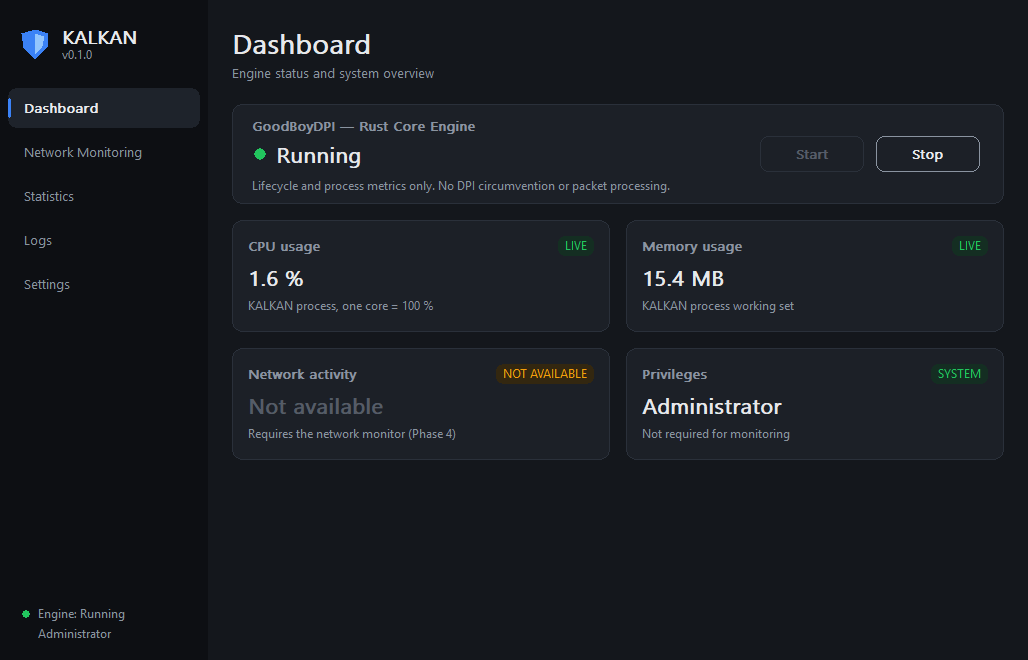
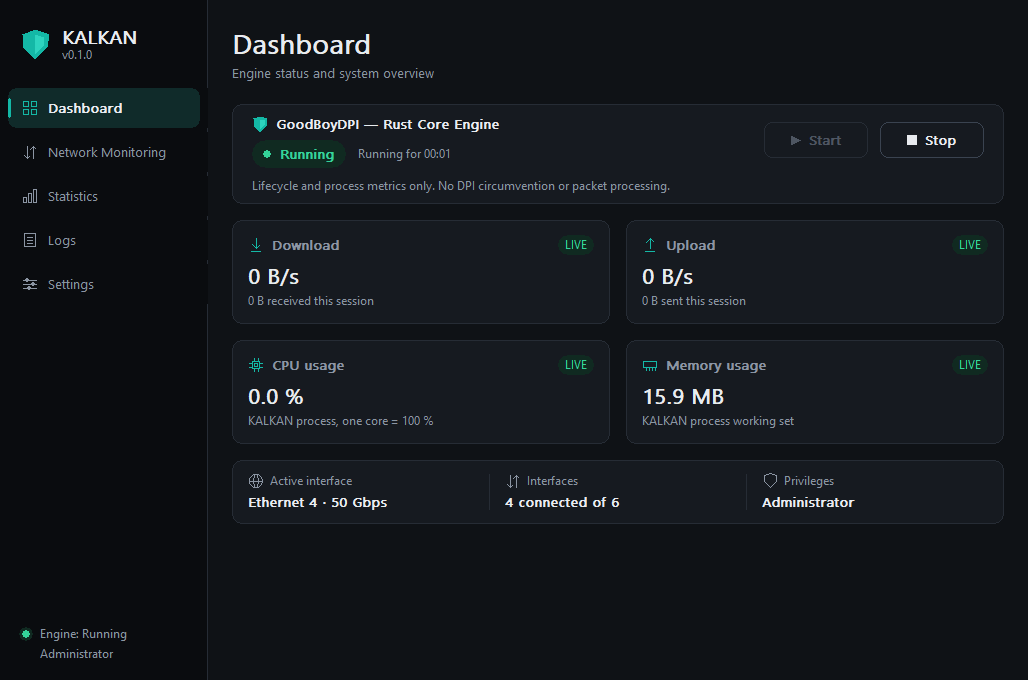
Docs for Phase 4; keep sidebar border visible next to nav buttons
- README: network monitoring section, counting rules, verified test
  coverage, CI measurements (incl. the 15.6 ms CPU-accounting caveat),
  untested areas; screenshots from CI run 15
- ARCHITECTURE: network data flow, counting rules, edge cases, cost;
  updated dependency graph (core -> net <- win)
- GUI.md: design tokens, components, hover subclassing, layout, Phase 4
  self-test steps, remaining gaps
- Layout: nav buttons are 1 px narrower so the sidebar border is not
  painted over (seen in the run 15 screenshots), with a test

Claude-Session: https://claude.ai/code/session_013rArqHUrzSJp7RaL7xFFoP

diff --git a/crates/kalkan-gui/src/layout.rs b/crates/kalkan-gui/src/layout.rs
@@ -129,7 +129,8 @@ pub fn compute(client_w: i32, client_h: i32, dpi: u32, c: Content) -> Layout {
     let mut nav = [Rect::default(); 5];
     let mut y = logo.bottom();
     for r in &mut nav {
-        *r = Rect::new(0, y, sidebar.w, s(theme::NAV_H));
+        // Leave the sidebar's 1 px right border visible next to the buttons.
+        *r = Rect::new(0, y, (sidebar.w - 1).max(0), s(theme::NAV_H));
         y += s(theme::NAV_H) + s(theme::NAV_GAP);
     }
     let footer_h = s(theme::SIDEBAR_FOOTER_H);

diff --git a/crates/kalkan-gui/src/layout_tests.rs b/crates/kalkan-gui/src/layout_tests.rs
@@ -246,3 +246,13 @@ fn columns_fill_width_and_drop_low_priority_when_narrow() {
     let kept: Vec<_> = tiny.iter().map(|c| c.index).collect();
     assert_eq!(kept, vec![0, 3, 4], "essential columns are never dropped");
 }
+
+#[test]
+fn nav_buttons_leave_the_sidebar_border_visible() {
+    for dpi in [96, 144] {
+        let l = compute(scale(1040, dpi), scale(680, dpi), dpi, DASH);
+        for n in l.nav {
+            assert_eq!(n.right(), l.sidebar.right() - 1, "dpi {dpi}");
+        }
+    }
+}

diff --git a/README.md b/README.md
@@ -6,7 +6,7 @@
   <img src="https://img.shields.io/badge/Language-Rust-orange?style=for-the-badge&logo=rust" />
   <img src="https://img.shields.io/badge/Platform-Windows%2010%20%7C%2011-blue?style=for-the-badge&logo=windows" />
   <img src="https://img.shields.io/badge/Architecture-Native-success?style=for-the-badge" />
-  <img src="https://img.shields.io/badge/Status-Phase%203%20of%207-yellow?style=for-the-badge" />
+  <img src="https://img.shields.io/badge/Status-Phase%204%20of%207-yellow?style=for-the-badge" />
   <img src="https://img.shields.io/badge/License-MIT-green?style=for-the-badge" />
 </p>
 
@@ -33,88 +33,96 @@ KALKAN is built in phases. A feature is marked ✅ only after it has been compil
 | 1 | Project foundation and compilation | ✅ Done |
 | 2 | Native Win32 GUI | ✅ Done |
 | 3 | Core engine lifecycle: GoodBoyDPI (threaded) | ✅ Done |
-| 4 | Read-only network monitoring | ⏳ Next |
-| 5 | Logging (files, rotation, in-app view) and configuration UI | 🟡 Planned |
+| 4 | Read-only network monitoring and UI refinement | ✅ Done |
+| 5 | Logging (files, rotation, in-app view) and configuration UI | ⏳ Next |
 | 6 | Performance benchmarking | 🟡 Planned |
 | 7 | DPI research and controlled integration planning | 🔬 Research |
 
 ### Screenshots
 
-Captured automatically by `kalkan --self-test` on the Windows CI runner at 96 DPI:
+Captured automatically by `kalkan --self-test` on the Windows CI runner (CI run 15). The traffic is real and low, because the runner is idle:
 
 <p align="center">
-  <img src="docs/screenshots/dashboard-running.png" width="720" alt="KALKAN dashboard: GoodBoyDPI engine Running, with live CPU and memory of the KALKAN process; network is marked not available" />
+  <img src="docs/screenshots/dashboard-running.png" width="720" alt="Dashboard: GoodBoyDPI running, live download/upload/CPU/memory cards, active interface strip" />
 </p>
 
-| Duplicate Start is rejected | Logs page | Settings (real config values) |
-|---|---|---|
-| <img src="docs/screenshots/dashboard-duplicate-start.png" width="300" alt="Warning: Start ignored, the engine is already running" /> | <img src="docs/screenshots/logs.png" width="300" alt="Logs page" /> | <img src="docs/screenshots/settings.png" width="300" alt="Settings page" /> |
+| Network Monitoring (real interfaces) | Statistics (this session) |
+|---|---|
+| <img src="docs/screenshots/network-running.png" width="420" alt="Network page with download/upload graphs and the interface table" /> | <img src="docs/screenshots/statistics-running.png" width="420" alt="Statistics page" /> |
 
-At the minimum window size (760 × 560) the grid reflows and the engine's scope disclaimer stays fully readable:
+| 150 % display scaling (WM_DPICHANGED) | Minimum window size (760 × 600) |
+|---|---|
+| <img src="docs/screenshots/dashboard-150-percent.png" width="420" alt="Dashboard rendered at 144 DPI" /> | <img src="docs/screenshots/dashboard-minimum-size.png" width="380" alt="Dashboard at minimum size" /> |
 
-<p align="center"><img src="docs/screenshots/dashboard-minimum-size.png" width="380" alt="Dashboard at minimum size, engine stopped" /></p>
+The data badges mean:
+- **LIVE**: measured by the running engine.
+- **SYSTEM** / **CONFIG**: read from Windows or from `kalkan.toml`.
+- **NOT AVAILABLE**: no value exists. The card says why, for example "Start the engine to monitor network activity". KALKAN never shows invented numbers.
 
-**LIVE** values come from the running engine. **SYSTEM** and **CONFIG** values are read from Windows and from `kalkan.toml`. Values marked **NOT AVAILABLE** do not exist yet; KALKAN never shows invented numbers.
+### Network monitoring (read-only)
 
-### The engine: GoodBoyDPI
+KALKAN reads the interface counters Windows already keeps, using IP Helper `GetIfTable2`. **It never captures, injects, blocks or modifies packets**, and it needs no driver and no administrator rights.
 
-**GoodBoyDPI — Rust Core Engine** is the internal name of KALKAN's background engine.
-
-> **What it does today:** it starts and stops reliably on its own threads and measures KALKAN's own CPU time and memory. **It contains no DPI circumvention, packet capture or packet modification.** The name does not imply that functionality exists.
-
-* It uses two threads. `kalkan-engine` owns the lifecycle and is idle in a blocking receive. `goodboydpi-core` exists only while the engine is running.
-* The GUI is woken with `PostMessageW` and never polls.
-* The states are Stopped, Starting, Running, Stopping and Failed. Running is reported only after initialisation succeeds. Invalid commands are rejected with a warning, and failures show the real error.
-* Closing the window stops the engine first and waits for its confirmation, bounded by a timeout.
-
-See [docs/ARCHITECTURE.md](docs/ARCHITECTURE.md#the-engine-goodboydpi-kalkan-coreengine) for the threads, the message flow and the concurrency rules.
+* **What you see:** download and upload speed with 60-second graphs, session totals, peaks and averages, and every relevant interface with its type, link speed, connection status, live rates and cumulative received/sent bytes.
+* **No double counting.** Windows lists each physical adapter several times, once per NDIS filter driver, and those rows are dropped. Totals count each connected **hardware** adapter once:
+  - VPN and virtual adapters are listed but not counted, because their traffic also crosses a physical adapter.
+  - Adapters that **share a MAC address** with a counted one are listed as duplicates and not counted. This is the case for a Hyper-V NIC and its SR-IOV virtual function under accelerated networking.
+  - The CI runner has exactly this setup. Before the MAC rule, a 5 MB download showed as 10 MB.
+* **Robust counters:**
+  - Counter resets (driver reloads) count as 0, never as a spike.
+  - Adapters that are added, removed, connected or disconnected are reported in the notice bar, for example "Wi-Fi disconnected".
+  - A newly added adapter's lifetime bytes are not counted as session traffic.
+  - If the monitor fails, the reason is shown and process metrics keep working.
+* **Cost:** sampling runs on the existing engine worker in the same 1 s tick as process metrics. There is no extra thread or timer, and nothing runs while the engine is stopped.
+* `kalkan --interfaces` prints the same table in a terminal, which is useful for diagnosing a user's machine.
 
 ### What works today
 
 | Component | Status | Verified by |
 |---|---|---|
-| Cargo workspace, 7 crates, shared lints and release profile | ✅ | CI on Windows (MSVC) and Linux (cross-compile to `x86_64-pc-windows-gnu`) |
-| **GoodBoyDPI engine:** controller and worker threads, lifecycle, Start/Stop/QueryStatus/Shutdown, error and panic handling, bounded shutdown, no orphaned threads | ✅ | 31 unit tests in `kalkan-core`: every transition, duplicate and invalid commands, start failure and retry, panics, shutdown, thread termination, and randomized command storms (2 500 commands). Run 25× per CI build on Windows, plus 100 local runs and 30 under full CPU load on Linux |
-| Real process metrics: CPU % (one core = 100 %) and working set of KALKAN itself | ✅ | Windows unit test, and the self-test sees live samples about 1 s after Start |
-| **Native Win32 GUI** wired to the real engine: Start/Stop, live status, error and warning notices, two-step close | ✅ | 26 unit tests for the model, layout and theme, plus the 37-check `--self-test` with real button clicks, 10 start/stop cycles and close-while-running. Runs 3× per CI build on Windows |
-| GUI-mode logging to `%LOCALAPPDATA%\Kalkan\logs\kalkan.log` (one `.old` rollover above 5 MB), panic hook | ✅ | 5 unit tests. ⚠ CI runs only console mode, so writing the file from a real GUI start has not been exercised on Windows yet |
-| TOML config with validation; `start_engine_on_launch` is honoured | ✅ | 12 config tests. ⚠ The start-on-launch path is not covered by the self-test |
-| Read-only `NetworkMonitor` trait, counter and rate math | ✅ | 7 unit tests. Not used by the engine yet (Phase 4) |
-| `kalkan` CLI: `--version`, `--config`, `--check-config`, `--print-default-config`, `--self-test` | ✅ | 9 unit tests plus the CI smoke test with exit-code checks |
-| Start-up errors shown in a dialog when started from Explorer | ⚠ | Code path compiles. Not exercised by CI |
+| GoodBoyDPI engine: controller and worker threads, lifecycle, Start/Stop/QueryStatus/Shutdown, errors, panics, bounded shutdown, no orphaned threads | ✅ | 36 engine tests, repeated 25× per CI build on Windows |
+| **Read-only network monitoring:** interfaces, rates, totals, peaks, adapter changes, resets, filter/virtual/same-MAC de-duplication | ✅ | 15 tracker tests with simulated adapters, 7 Windows-side classification tests, a real `GetIfTable2` test on Windows, and the CI end-to-end check: a 5,000,000-byte download made the counted bytes grow by 5,054,232 (1.01×; the rest is background traffic) |
+| Process metrics (KALKAN's own CPU and working set) | ✅ | Windows unit test and self-test |
+| **Refined native GUI:** teal design tokens, line icons, state pill, hover and hand cursor, runtime window icon, live Dashboard, Network page with graphs and interface table, Statistics, Logs, Settings | ✅ | 31 model/layout/theme tests (including WCAG AA contrast for every text/surface pair, and every page fitting at minimum size at 96 to 192 DPI), plus the **47-check** `--self-test`, run 3× per CI build |
+| Display scaling | ⚠ partial | Layout is unit-tested at 96, 120, 144, 168 and 192 DPI. On Windows, the real DPI-change code path was exercised by sending `WM_DPICHANGED` (150 %, screenshot above). The runner's display itself is 96 DPI, so a real high-DPI monitor has not been tested |
+| GUI-mode log file, `start_engine_on_launch`, start-up error dialog | ⚠ | Unit-tested where possible. Not exercised by CI, which runs only console paths |
 
-**Observed timings and memory (CI runner, one run, not a benchmark):**
-- Start → Running in 10 ms.
-- Stop → confirmed in 10 ms.
-- First CPU sample after 998 ms, matching the 1 s sample interval.
-- 10 start/stop cycles in about 190 ms.
-- After the self-test: working set 19.5 MiB (peak 20.5 MiB), private bytes 2.0 MiB.
+**Measurements.** These were taken on the GitHub Actions `windows-latest` VM, CI run 15 unless noted. They are single runs, not a controlled benchmark:
 
-Proper measurements, including idle CPU, are Phase 6.
+| What | Result |
+|---|---|
+| One network sample + tracker update (6 interfaces), n = 1000 | mean 647 µs, p99 1.18 ms wall; **0.42 ms CPU per sample**, about 0.04 % of one core at 1 Hz |
+| One process-metrics sample | 0.6 µs |
+| Engine stopped, 10 s | 0.0 ms CPU |
+| Engine running, 10 s (headless) | 0.0 ms here; 15.6 ms in run 13. Windows charges process CPU in about 15.6 ms ticks, so this window can only show 0 or 1 tick; the per-sample figure above is the better estimate |
+| Whole app with the **live Network page repainting** every second, 5 s | **0.31 % of one core** (runs 13 and 15) |
+| Working set: headless benchmark / GUI after the self-test | 6.6 MiB / about 20 MiB |
 
-**Windows runtime coverage so far:** everything above marked ✅ ran on the GitHub Actions `windows-latest` runner (Windows Server, 1024×768, 96 DPI, elevated). The following have **not** been tested yet:
+**Not tested yet:**
 - running on a Windows 10 or 11 desktop
-- running as a standard (non-elevated) user
-- high-DPI displays and `WM_DPICHANGED`
-- moving the window between monitors
+- a standard (non-elevated) user
+- real Wi-Fi, cellular or USB adapters
+- physically unplugging and re-plugging a cable
+- a real high-DPI monitor and moving the window between monitors
 - screen readers
+
+Wi-Fi, disconnects, reconnects, adapter removal and counter resets are covered by the simulated-adapter tests only.
 
 ### Not implemented yet
 
-- Network monitoring: interface counters via `GetIfTable2` (Phase 4). Network cards say "Not available".
 - The in-app log viewer, daily rotation and retention (`logging.max_log_files`), and settings editing (Phase 5).
-- Hover effects, an application icon resource, scrolling, light theme, system tray, gaming profile and benchmarks.
-- Any DPI-related functionality (Phase 7, research only).
+- Scrolling: very long interface lists are cut off with "+N more"; enlarge the window to see all of them. There is also no light theme and no system tray.
+- Any DPI-related functionality (Phase 7, research only). "DPI" in GoodBoyDPI is part of an internal name only.
 
 ## 🧠 Architecture
 
 ```
 kalkan-app ──► kalkan-gui ──► kalkan-core      GoodBoyDPI engine; GUI only speaks EngineLink
      │
-     ├──► kalkan-net      read-only monitor trait (no packet modification API)
+     ├──► kalkan-net      read-only counters → rates/totals (NetTracker), no packet API
      ├──► kalkan-config   TOML + validation
      ├──► kalkan-logging  tracing → stderr or log file
-     └──► kalkan-win      Windows queries (privileges, process CPU/memory, console)
+     └──► kalkan-win      Windows: GetIfTable2 monitor, privileges, process CPU/memory
 ```
 
 * **[docs/ARCHITECTURE.md](docs/ARCHITECTURE.md)**: the full design, the lifecycle diagram, the threading model and the extension points.
@@ -148,6 +156,8 @@ Tests for the platform-independent crates run on any OS with `cargo test --works
 kalkan                                   # open the window
 kalkan --config my.toml                  # open the window with another config file
 kalkan --check-config                    # validate the config and exit
+kalkan --interfaces                      # list network interfaces and counters
+kalkan --benchmark                       # measure monitoring overhead (~25 s)
 kalkan --print-default-config > kalkan.toml
 kalkan --self-test --screenshots shots   # scripted UI check (used by CI)
 ```

diff --git a/docs/GUI.md b/docs/GUI.md
@@ -47,28 +47,50 @@ Every value on screen is a `model::Value`:
 
 CPU, memory and network cards are `Real` only when an `EngineStatus` contains that number. The unit test `no_engine_data_means_no_real_metrics_anywhere` checks every page. When the engine leaves `Running`, the metrics are cleared and the cards show "Measured while the engine is running". Network cards stay NOT AVAILABLE until the Phase 4 monitor exists.
 
+## Design system
+
+All colours and sizes come from `theme.rs`. There are no gradients, shadows or animations.
+
+| Token | Value | Use |
+|---|---|---|
+| `PRIMARY` / `_HOVER` / `_PRESSED` / `_SOFT` | `#14B8A6` / `#2DD4BF` / `#0F9488` / `#102B2A` | Brand teal: Start, active navigation, download series, info notices |
+| `ON_PRIMARY` | `#041F1C` | Label on teal (dark text, 6.9:1; white on teal would fail AA) |
+| `BG` / `SIDEBAR` / `CARD` / `CARD_HOVER` | `#0F1216` / `#0A0C0F` / `#161A20` / `#1D222A` | Surfaces |
+| `BORDER` / `BORDER_STRONG` | `#262C35` / `#3A4350` | 1 px outlines |
+| `TEXT` / `TEXT_MUTED` / `TEXT_DISABLED` | `#E8EBEF` / `#8B95A3` / `#4E5662` | Text hierarchy; "Not available" uses the disabled colour |
+| `SUCCESS` / `WARNING` / `ERROR` (+ `_SOFT`) | `#34D399` / `#FBBF24` / `#F87171` | Status pills, badges, notices |
+| `UPLOAD` | `#60A5FA` | Upload series, kept distinct from the teal download series |
+
+* **Contrast.** `theme::tests::text_contrast_meets_wcag` checks WCAG AA (4.5:1) for every text/surface pair the GUI uses. The lowest pair is muted text on the teal-tinted surface, at 4.94.
+* **Icons** are 16-DIP line icons drawn with GDI pens (dashboard, network, statistics, logs, settings, download, upload, CPU, memory, shield, interface, clock, peak, average, file). There are no image resources. The window and taskbar icon is the KALKAN shield, rendered with `CreateIconIndirect` at start-up.
+* **Components:**
+  - **Card**: icon, title, source badge, value and detail.
+  - **Tile**: a large value with a 60-sample area graph. It is drawn from a fixed-size ring buffer into a stack `POINT` array, with no per-frame allocation.
+  - **Strip**: labelled values separated by dividers.
+  - **Table**: columns with minimum widths, weights and priorities. Low-priority columns are hidden when space is short. Rows that don't fit become "+N more".
+  - **State pill**: a soft background and a haloed dot.
+  - **Buttons** have hover, pressed, disabled and focus states, and show play/stop glyphs.
+* **Hover feedback.** The owner-drawn buttons are subclassed in the classic way (`GWLP_WNDPROC`, with the original procedure kept in `GWLP_USERDATA`). `TrackMouseEvent` provides leave notifications, and the cursor becomes a hand. No comctl32 v6 manifest is needed.
+
 ## Layout
 
 ```
 ┌──────────────┬──────────────────────────────────────────────────┐
-│ ◆ KALKAN     │  Page title                                      │
-│   v0.1.0     │  subtitle                                        │
-│              │ ┌─ notice (Dashboard, after an action) ────────┐ │
-│ ▌Dashboard   │ └──────────────────────────────────────────────┘ │
-│  Network Mon │ ┌─ GoodBoyDPI — Rust Core Engine ──────────────┐ │
-│              │ │  ● Running                    [Start] [Stop] │ │
-│  Statistics  │ │  Lifecycle and process metrics only. No DPI… │ │
-│              │ └──────────────────────────────────────────────┘ │
-│  Logs        │ ┌ card ─────┐┌ card ─────┐┌ card ─────┐┌ card ───┐ │
-│  Settings    │ └───────────┘└───────────┘└───────────┘└─────────┘ │
-│              │ ┌ key/value table (Settings) ──────────────────┐ │
-│ ● Engine: …  │ └──────────────────────────────────────────────┘ │
-│ Standard user│  explanatory note                                │
+│ ◆ KALKAN     │  Page title / subtitle                           │
+│   v0.1.0     │ ┌─ notice (Dashboard) ─────────────────────────┐ │
+│ ▣ Dashboard  │ ┌─ ◆ GoodBoyDPI — Rust Core Engine  [▶Start][■Stop]┐
+│ ⇅ Network    │ │  (● Running)  Running for 01:23              │ │
+│ ▥ Statistics │ │  Lifecycle and process metrics only. No DPI…  │ │
+│ ☰ Logs       │ ├──────────────────────────────────────────────┤ │
+│ ≡ Settings   │ │ tiles (Network)   ┌ Download ┐ ┌ Upload ┐    │ │
+│              │ │ cards (2–4 cols)  ┌ card ┐┌ card ┐┌ card ┐   │ │
+│ ● Engine: …  │ │ strip             Active interface │ … │ …   │ │
+│ Administrator│ │ table             interface rows / settings   │ │
 └──────────────┴──────────────────────────────────────────────────┘
 ```
 
-* The sidebar is a fixed 208 DIP wide. Content cards reflow to between 1 and 4 columns (minimum card width 200 DIP).
-* Minimum client size is 760 × 560 DIP. The layout tests check that every page fits at the minimum size at 100 %, 150 % and 200 % scaling.
+* The sidebar is 208 DIP wide. Tiles and cards reflow into a balanced grid (4 cards → 2×2, 6 → 3×2) with a minimum width of 200 DIP each.
+* The minimum client size is **760 × 600 DIP**. Layout tests check that every page fits at the minimum size at 96, 120, 144, 168 and 192 DPI, that no blocks overlap, and that the sidebar border stays visible.
 * Per-monitor DPI awareness v2: fonts and layout are rebuilt on `WM_DPICHANGED`.
 
 ## Controls and input
@@ -111,6 +133,16 @@ CPU, memory and network cards are `Real` only when an `EngineStatus` contains th
 
 ## Self-test (`kalkan --self-test --screenshots <dir>`)
 
+In Phase 4 the self-test has **47 checks**, and CI runs it 3 times per build. On top of the Phase 3 steps it now:
+
+* waits for the **real** network monitor and requires at least one counted interface, then requires rates computed from two real samples;
+* checks that the Dashboard shows live download, upload and active interface, that the Network table lists every interface, and that Statistics shows live session totals;
+* measures **process CPU over 5 s** with the live Network page repainting, inside a real blocking message loop. The bound is < 15 % of one core, to catch busy loops. Measured: 0.31 %;
+* **paints every page in every engine state, with every notice kind, at 96 and 144 DPI, synchronously**, plus hover in/out on every button (214 frames). This step was added after a paint-path crash that occurred only when a `WM_PAINT` landed in the few milliseconds of the `Stopping` state. The cause was an empty string handed to `DrawTextW` as a dangling zero-length slice;
+* simulates moving to a 150 % monitor and back (`WM_DPICHANGED`), checks that the layout matches the real client area, and saves a screenshot.
+
+The Phase 3 steps are listed below.
+
 The self-test drives the real window **and the real engine** on Windows CI. It makes 37 checks, and CI runs it 3 times per build:
 
 1. Initial state: Dashboard is shown, the engine reports Stopped, Start is enabled and Stop is disabled.
@@ -127,10 +159,12 @@ Screenshots are uploaded as the `gui-screenshots` CI artifact.
 
 ## Not done yet
 
-* No hover effects, because owner-drawn buttons don't get hover state without subclassing.
-* No application icon resource yet. The shield is drawn in the sidebar only.
-* No scrolling. Content is sized to fit at the minimum window size.
+* No scrolling. Long interface lists end in "+N more"; enlarge the window to see everything.
+* No interface selection. The Network page shows an overview of all interfaces, and the totals follow the counting rules.
+* Hover feedback is limited to the buttons (sidebar, Start, Stop). Cards and table rows are not interactive.
+* The window icon is generated at runtime. There is no `.ico` resource embedded in the executable, so Explorer shows the default program icon for `kalkan.exe`.
 * Dark theme only. The app does not follow the Windows light/dark setting.
 * There is no system tray.
 * Logs are not shown in the app yet. GUI runs write to `%LOCALAPPDATA%\Kalkan\logs\kalkan.log`, and the Logs page shows that path. The in-app viewer is Phase 5.
 * CPU and memory show KALKAN's own process, not the whole system.
+* The graphs auto-scale with a 1 KB/s floor and have no axis labels; they show the trend, not exact values.

diff --git a/docs/ARCHITECTURE.md b/docs/ARCHITECTURE.md
@@ -33,10 +33,11 @@ kalkan/
                  kalkan-app
      ┌──────┬──────┼───────┬────────┬─────────┐
      ▼      ▼      ▼       ▼        ▼         ▼
-  gui ──► core    net    config ◄── logging   win
+  gui ──► core ──► net ◄── win    config ◄── logging
 ```
 
-* `kalkan-gui` depends **only** on `kalkan-core`. It cannot reach the network layer directly.
+* `kalkan-gui` depends **only** on `kalkan-core`. It sees network data through types that `kalkan-core` re-exports, and never calls the monitor.
+* `kalkan-net` holds the read-only monitor trait and the platform-independent tracker. `kalkan-win` implements the trait for Windows. Only the app connects the two.
 * `kalkan-core`, `kalkan-net` and `kalkan-config` are platform independent and are unit tested on any OS.
 * `kalkan-win` pulls in the `windows` crate only under `cfg(windows)`.
 
@@ -105,14 +106,36 @@ While the engine is stopped, two threads exist: the UI and the controller. The c
 |---|---|
 | `Start`, `Stop`, `QueryStatus`, `Shutdown` | `StateChanged{from,to}`, `EngineStarted`, `EngineStopped`, `EngineError{message}`, `DiagnosticMessage{level,message}`, `Status(EngineStatus)`, `ShutdownComplete` |
 
-`EngineStatus` metrics are `Option`s. They are `Some` only when measured, and they are cleared whenever the engine leaves `Running`.
+`EngineStatus` contains `cpu_percent`, `memory_bytes`, `network: Option<NetworkStatus>`, `network_error: Option<String>` and `running_for`. Each field is `Some` only when measured, and all of them are cleared whenever the engine leaves `Running`. Adapter changes arrive as `DiagnosticMessage` (Info), for example "Wi-Fi disconnected".
 
-## Network monitoring (Phase 4 plan)
+## Network monitoring (read-only)
 
-* Trait: `kalkan_net::NetworkMonitor` with `start`, `sample`, `stop`, and nothing that writes.
-* Windows implementation: IP Helper `GetIfTable2` (64-bit interface counters), sampled on the existing `goodboydpi-core` worker at the configured interval (default 1 s, minimum 250 ms).
-* Rates: `Rates::between` handles counter resets (it reports 0, not garbage), saturation and out-of-order samples.
-* No admin rights are needed for this. Elevation is detected and shown, but it is not required.
+```
+ goodboydpi-core worker, once per sample_interval (default 1 s):
+   WinNetworkMonitor::sample(&mut snapshot)      kalkan-win  (GetIfTable2 → FreeMibTable)
+     drops: NDIS filter rows, loopback, down non-hardware interfaces
+     fills: id (LUID), alias, description, kind, connected, hardware, MAC, In/OutOctets, link speed
+   NetTracker::update(&snapshot)                 kalkan-net  (pure, unit-tested)
+     per-interface rates (reset-safe), counted = connected ∧ hardware ∧ first-of-its-MAC
+     totals, session bytes, peaks, InterfaceChange (Added/Removed/Connected/Disconnected)
+   → WorkerMsg::Sample { process, net } → controller → Event::Status + DiagnosticMessage(s)
+```
+
+* **Read-only by construction.** The trait has a single `sample(&mut Snapshot)` method. There is no API for capturing, sending or modifying traffic. No admin rights or drivers are needed.
+* **Counting rules**, chosen to avoid double counting:
+  1. NDIS lightweight-filter rows repeat their NIC's counters, so they are dropped.
+  2. Non-hardware (VPN, virtual) interfaces are shown but not counted.
+  3. Connected hardware interfaces that share a **MAC address** count once. The lowest LUID wins, which keeps the choice stable across samples. The other interfaces are marked `duplicate_of`.
+
+  Rule 3 was added after CI run 13 measured a 5 MB download as 10 MB on an Azure VM. A Hyper-V synthetic NIC and its Mellanox SR-IOV VF both reported the traffic. CI now checks both bounds of a real 5,000,000-byte download (run 15: +5,054,232 bytes).
+* **Edge cases** (simulated-adapter tests in `kalkan-net/src/tests.rs`):
+  - A counter that goes backwards produces 0 for that interval.
+  - A new adapter has no rate until its second sample, and its lifetime bytes never appear as session traffic.
+  - With every adapter disconnected, the rate is a real 0.
+  - Renaming an adapter keeps its identity, which is the LUID.
+  - An empty list is safe.
+* **Failures.** If the monitor cannot be created, or a sample fails, the engine keeps running. `network_error` carries the reason, which the GUI shows. A warning is emitted once per failure streak, and stale numbers are never shown.
+* **Cost.** Measured on the CI VM with 6 interfaces: 0.42 ms CPU per sample, about 0.04 % of one core at 1 Hz. Sampling shares the worker's existing tick. While the engine is stopped, nothing runs.
 
 ## Configuration
 
